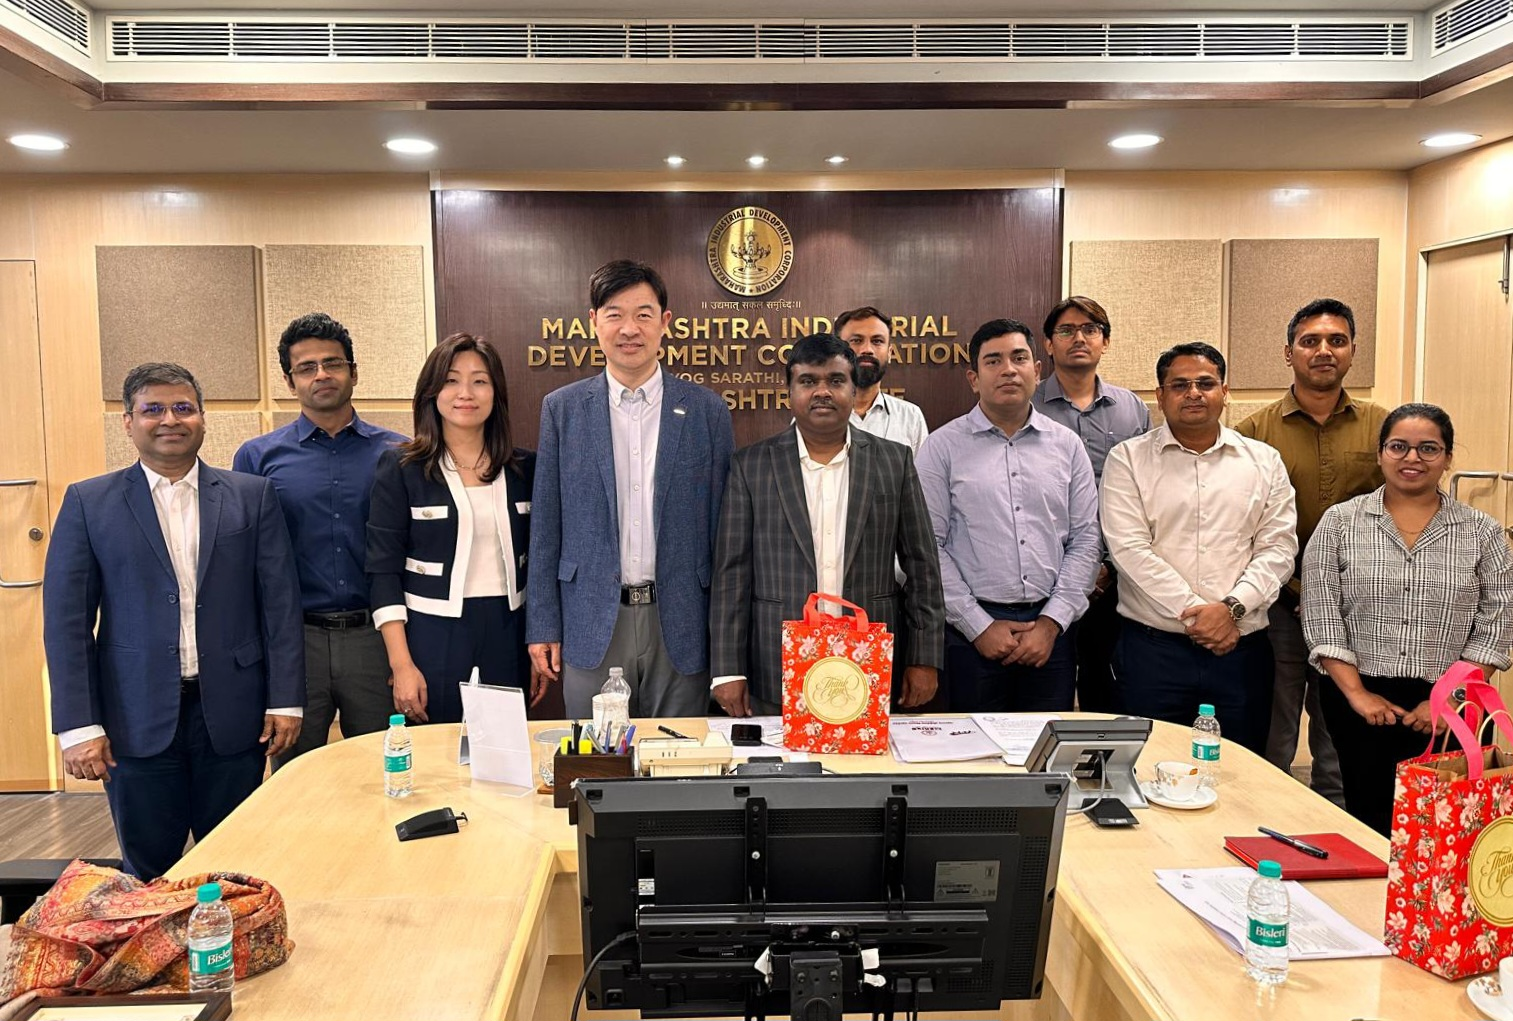
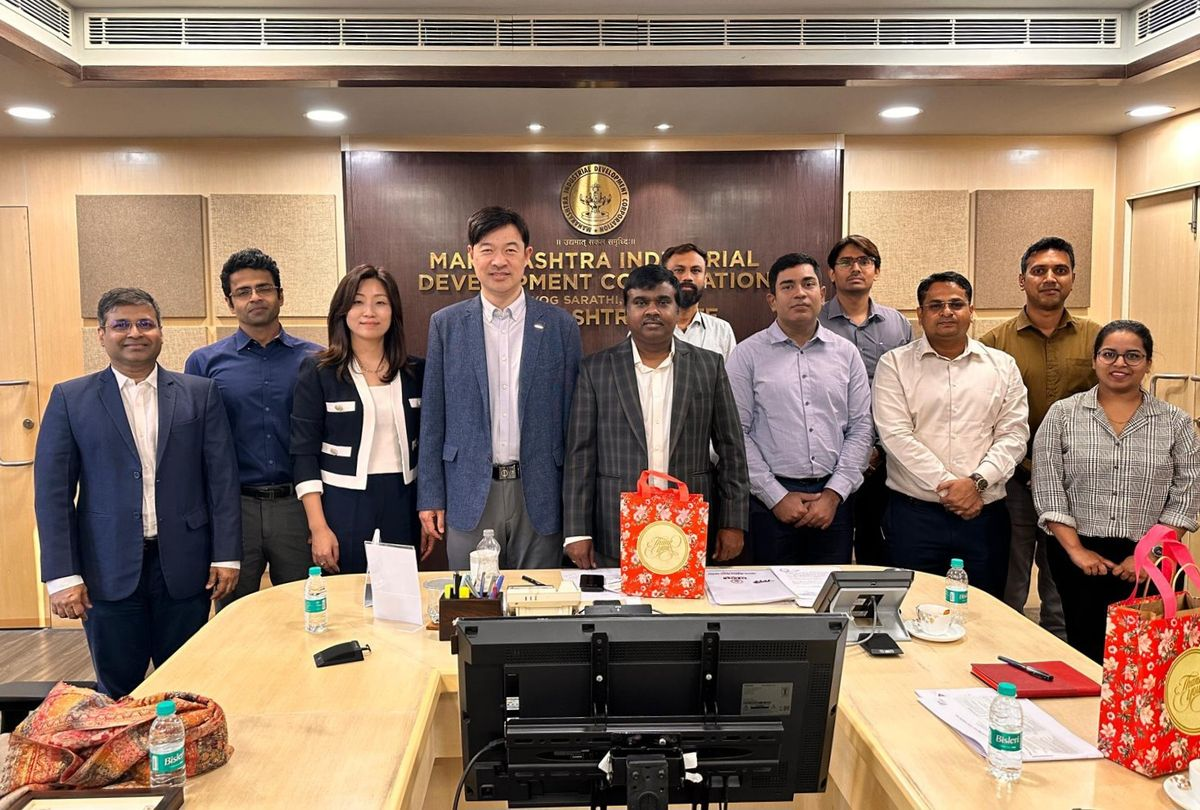
feat: add project gallery photos, reorder cards, optimize images
- PCU-KOSME: add 2 MOU ceremony photos
- Sogang-iHub: add Embassy Visit photo
- KOIMA B2B: replace thumbnail, add 2 gallery photos
- OKTA World Expo: replace thumbnail, add 4 gallery photos
- Edu Expo KOSME/EDUCON: replace all images (6 new), reorder as 3rd B2B card
- B2B Events: add 3 gallery photos (K-SS Day, Proclamation, T-Hub)
- B2B Meetings: add 11 gallery photos (KRAFTON, OFKOS, Medical, etc.)
- KOFICE Cultural: add 3 gallery photos (posters, NBT visit)
- Super 30: add Anand Kumar Embassy Visit photo
- ICCK: add 2 gallery photos
- Optimize all project images to max 1200px width for web performance

diff --git a/src/components/projects/ProjectsArea.tsx b/src/components/projects/ProjectsArea.tsx
@@ -31,7 +31,7 @@ const projects_meta: ProjectMeta[] = [
    {
       id: 3,
       thumb: "/assets/img/projects/pcu-kosme-mou-signing.jpg",
-      gallery: ["/assets/img/projects/pcu-inauguration-facilitation.jpg", "/assets/img/projects/kosme-facilitation-pcu.jpg", "/assets/img/projects/pcet-gbc-ceremony.jpg"],
+      gallery: ["/assets/img/projects/PCU - Korean Facilitation Centre MOU Ceremony.jpg", "/assets/img/projects/PCU - KOSME MOU Signing Ceremony2.jpg", "/assets/img/projects/pcu-inauguration-facilitation.jpg", "/assets/img/projects/kosme-facilitation-pcu.jpg", "/assets/img/projects/pcet-gbc-ceremony.jpg"],
       category: "mou",
       date: "2024-09-20",
       participants: 120,
@@ -39,7 +39,7 @@ const projects_meta: ProjectMeta[] = [
    {
       id: 4,
       thumb: "/assets/img/projects/sogang-ihub-mou-2024.jpg",
-      gallery: [],
+      gallery: ["/assets/img/projects/i-Hub Embassy Visit_2024.jpg"],
       category: "mou",
       date: "2024-07-10",
       participants: 60,
@@ -63,7 +63,7 @@ const projects_meta: ProjectMeta[] = [
    {
       id: 7,
       thumb: "/assets/img/projects/kofice-culture-project-1.jpg",
-      gallery: ["/assets/img/projects/kofice-culture-project-2.jpg"],
+      gallery: ["/assets/img/projects/kofice-culture-project-2.jpg", "/assets/img/projects/KOFICE Cultural Project 2021_Promotion Poster_1.jpg", "/assets/img/projects/KOFICE Cultural Project 2021_Main Poster.jpg", "/assets/img/projects/NBT_National Book Trust Visit_2023.jpg"],
       category: "cultural",
       date: "2025-01-20",
       participants: 150,
@@ -71,7 +71,7 @@ const projects_meta: ProjectMeta[] = [
    {
       id: 8,
       thumb: "/assets/img/projects/super-30-publication-icck.jpg",
-      gallery: ["/assets/img/projects/super-30-book-concert.jpg", "/assets/img/projects/super-30-anand-kumar.jpg", "/assets/img/projects/super-30-book-concert-1.jpg", "/assets/img/projects/super-30-original-book.jpg"],
+      gallery: ["/assets/img/projects/super-30-book-concert.jpg", "/assets/img/projects/super-30-anand-kumar.jpg", "/assets/img/projects/super-30-book-concert-1.jpg", "/assets/img/projects/super-30-original-book.jpg", "/assets/img/projects/Anand Kumar_Embassy Visit_1.jpg"],
       category: "cultural",
       date: "2024-06-15",
       participants: 300,
@@ -87,31 +87,31 @@ const projects_meta: ProjectMeta[] = [
    {
       id: 10,
       thumb: "/assets/img/projects/icck-diwali-ball-2024-cropped.jpg",
-      gallery: ["/assets/img/projects/icck-networking-2025-rotated.jpg", "/assets/img/projects/icck-annual-meeting-2023.jpg"],
+      gallery: ["/assets/img/projects/icck-networking-2025-rotated.jpg", "/assets/img/projects/icck-annual-meeting-2023.jpg", "/assets/img/projects/1747997143162.jpg", "/assets/img/projects/1747997142979.jpg"],
       category: "cultural",
       date: "2020-08-20",
       participants: 100,
    },
    {
       id: 11,
-      thumb: "/assets/img/projects/koima-b2b-forum.jpg",
-      gallery: [],
+      thumb: "/assets/img/projects/KOIMA_B2B matching Forum_2023.jpg",
+      gallery: ["/assets/img/projects/KOIMA_B2B Meeting Forum_2023_3.jpg", "/assets/img/projects/Rossari in Korea_1.jpg"],
       category: "b2b",
       date: "2025-10-27",
       participants: 200,
    },
    {
       id: 12,
-      thumb: "/assets/img/projects/okta-incheon-b2b-cropped.jpg",
-      gallery: ["/assets/img/projects/okta-world-b2b-meeting.jpg", "/assets/img/projects/okta-incheon-team.jpg"],
+      thumb: "/assets/img/projects/OKTA 2025_2.jpg",
+      gallery: ["/assets/img/projects/OKTA World Incheon_B2B meeting 1.jpg", "/assets/img/projects/OKTA 2025_1.jpg", "/assets/img/projects/OKTA 2025_3.jpg", "/assets/img/projects/OKTA World Business Expo_B2B meeting 2.jpg"],
       category: "b2b",
       date: "2025-06-20",
       participants: 180,
    },
    {
       id: 13,
-      thumb: "/assets/img/projects/educon-2024-1.jpg",
-      gallery: ["/assets/img/projects/educon-2024-2.jpg", "/assets/img/projects/educon-2024-3.jpg"],
+      thumb: "/assets/img/projects/EDUCON 2024_2 (1).jpg",
+      gallery: ["/assets/img/projects/EDUCON 2024_2.jpg", "/assets/img/projects/EDUCON 2024_1.jpg", "/assets/img/projects/DIDAC Edu Exhibition 2025_1.jpg", "/assets/img/projects/DIDAC Edu Exhibition 2025_2.jpg", "/assets/img/projects/DIDAC Edu Exhibition 2025_4.jpg"],
       category: "b2b",
       date: "2024-11-15",
       participants: 350,
@@ -127,7 +127,7 @@ const projects_meta: ProjectMeta[] = [
    {
       id: 15,
       thumb: "/assets/img/projects/sogang-thub-hyd-visit-2025.jpg",
-      gallery: ["/assets/img/projects/korea-smes-startups-day.jpg", "/assets/img/projects/india-forum-2026.jpg", "/assets/img/projects/gec-2025.jpg", "/assets/img/projects/proclamation-ceremony-smes.jpg"],
+      gallery: ["/assets/img/projects/korea-smes-startups-day.jpg", "/assets/img/projects/india-forum-2026.jpg", "/assets/img/projects/gec-2025.jpg", "/assets/img/projects/proclamation-ceremony-smes.jpg", "/assets/img/projects/K-SS Day_2025_2.jpg", "/assets/img/projects/Proclamation Ceremony – Korea SMEs & Startups Day 2025.jpg", "/assets/img/projects/Sogang_T-Hub Visit 2.jpg"],
       category: "b2b",
       date: "2025-03-10",
       participants: 400,
@@ -135,7 +135,7 @@ const projects_meta: ProjectMeta[] = [
    {
       id: 16,
       thumb: "/assets/img/projects/gs-patanjali-b2b.jpg",
-      gallery: ["/assets/img/projects/rossari-b2b-exhibition.jpg", "/assets/img/projects/b2b-meeting-2024.jpg", "/assets/img/projects/b2b-meeting-2024-2.jpg", "/assets/img/projects/b2b-beautysum-2025.jpg", "/assets/img/projects/ofkos-b2b-meeting-1.jpg"],
+      gallery: ["/assets/img/projects/rossari-b2b-exhibition.jpg", "/assets/img/projects/b2b-meeting-2024.jpg", "/assets/img/projects/b2b-meeting-2024-2.jpg", "/assets/img/projects/b2b-beautysum-2025.jpg", "/assets/img/projects/ofkos-b2b-meeting-1.jpg", "/assets/img/projects/KRAFTON Meeting_Anil Sinha_2024.jpg", "/assets/img/projects/OFKOS_B2B Meeting 2.jpg", "/assets/img/projects/Rossari in Korea_1.jpg", "/assets/img/projects/Medical Cosmetic_B2B Meeting_MoU_2025_1.jpg", "/assets/img/projects/Jagruti Technical_ Meeting.jpg", "/assets/img/projects/20250529_165357.jpg", "/assets/img/projects/20250530_113143.jpg", "/assets/img/projects/1748511114771.jpg", "/assets/img/projects/1748511114268.jpg", "/assets/img/projects/MNU_Mokpo National University Meeting.jpg", "/assets/img/projects/Resized_20240221_204432_1708580028330.jpeg"],
       category: "b2b",
       date: "2024-08-10",
       participants: 150,
